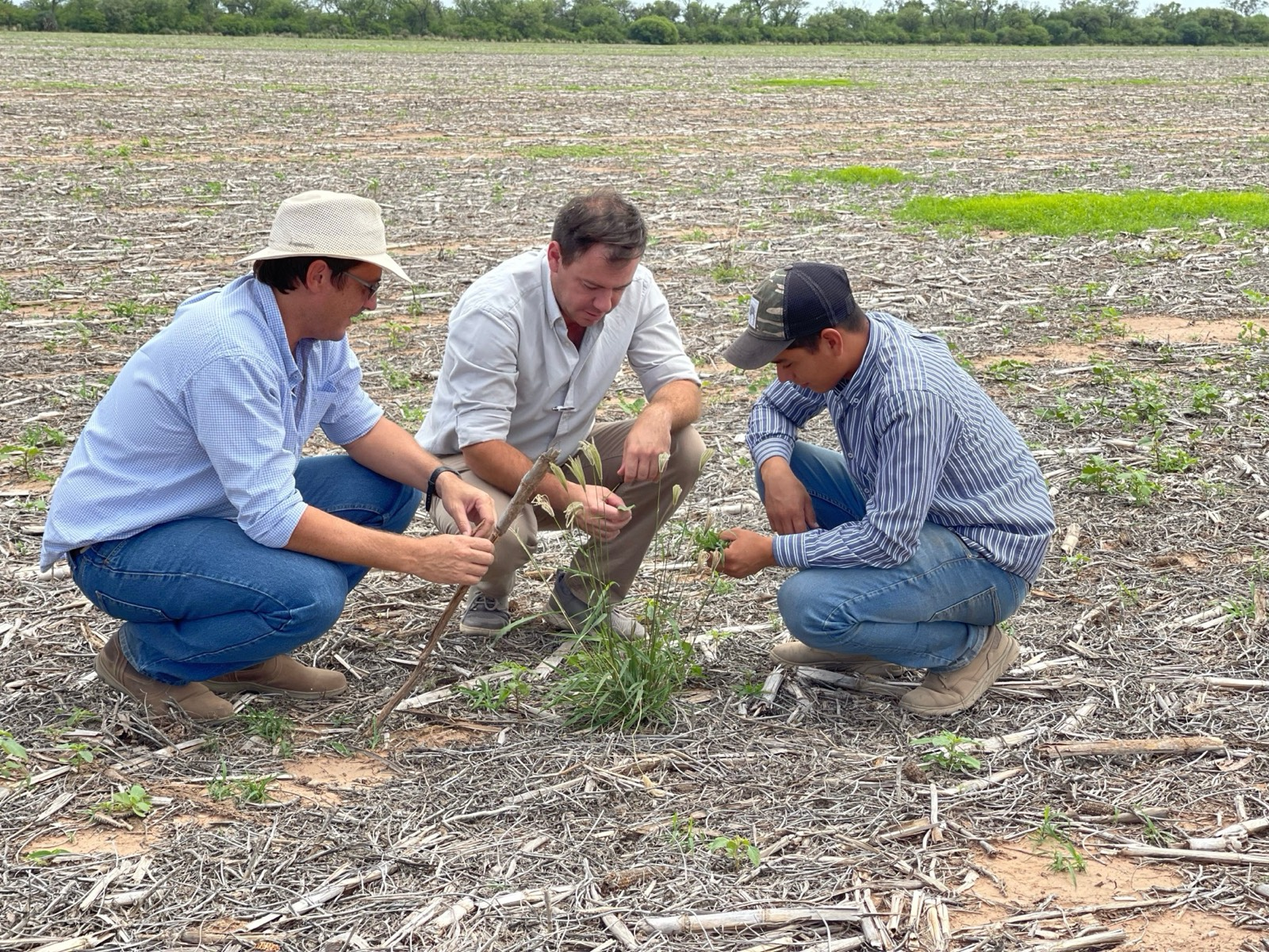
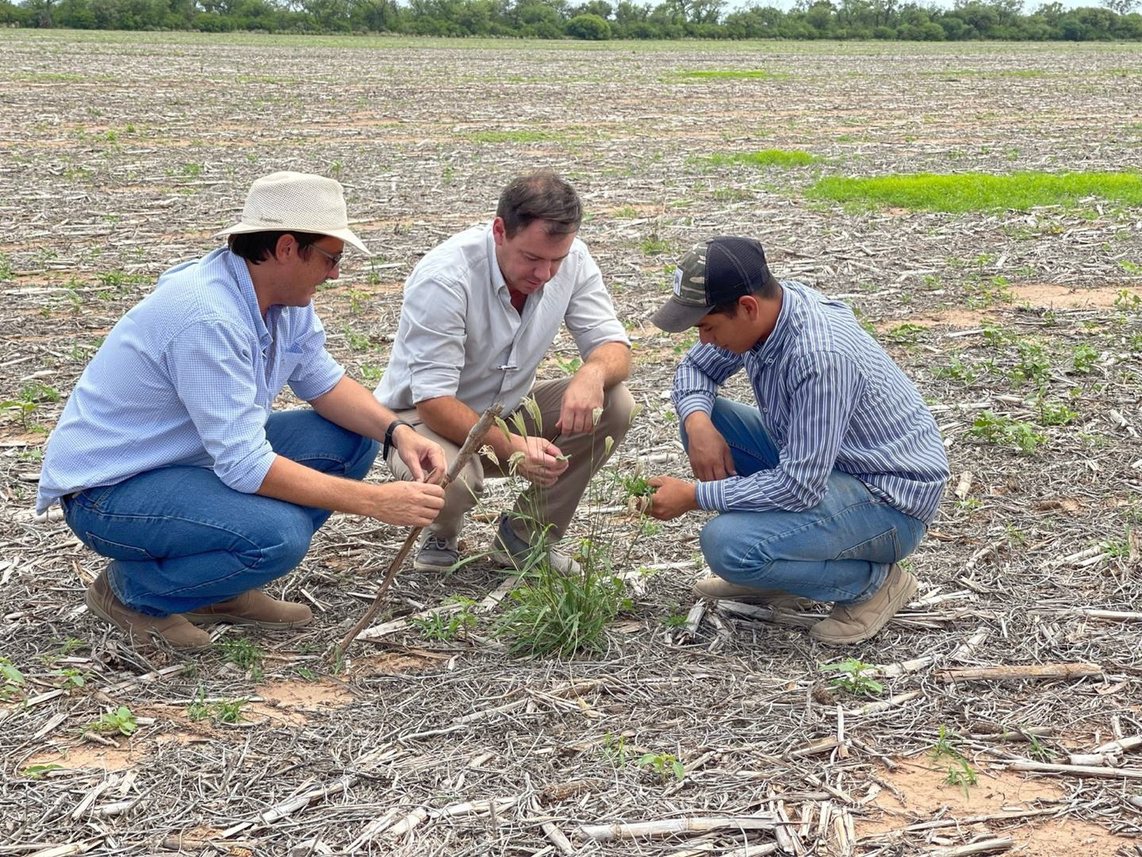
SEO: robots.txt, sitemap, noindex en la dirección de Vercel y foto más liviana

diff --git a/index.html b/index.html
@@ -135,7 +135,7 @@
 
   <section class="mv" data-i18n-aria-label="mv.label" aria-label="Misión y visión">
     <figure class="mv__media">
-      <img src="assets/img/nosotros.jpg" data-i18n-alt="mv.alt" alt="Ingenieros de Cusillos revisando un cultivo a campo" loading="lazy" width="1600" height="1200">
+      <img src="assets/img/nosotros.jpg" data-i18n-alt="mv.alt" alt="Ingenieros de Cusillos revisando un cultivo a campo" loading="lazy" width="1440" height="1080">
     </figure>
     <div class="mv__panels">
       <article class="mv__panel" data-reveal>
